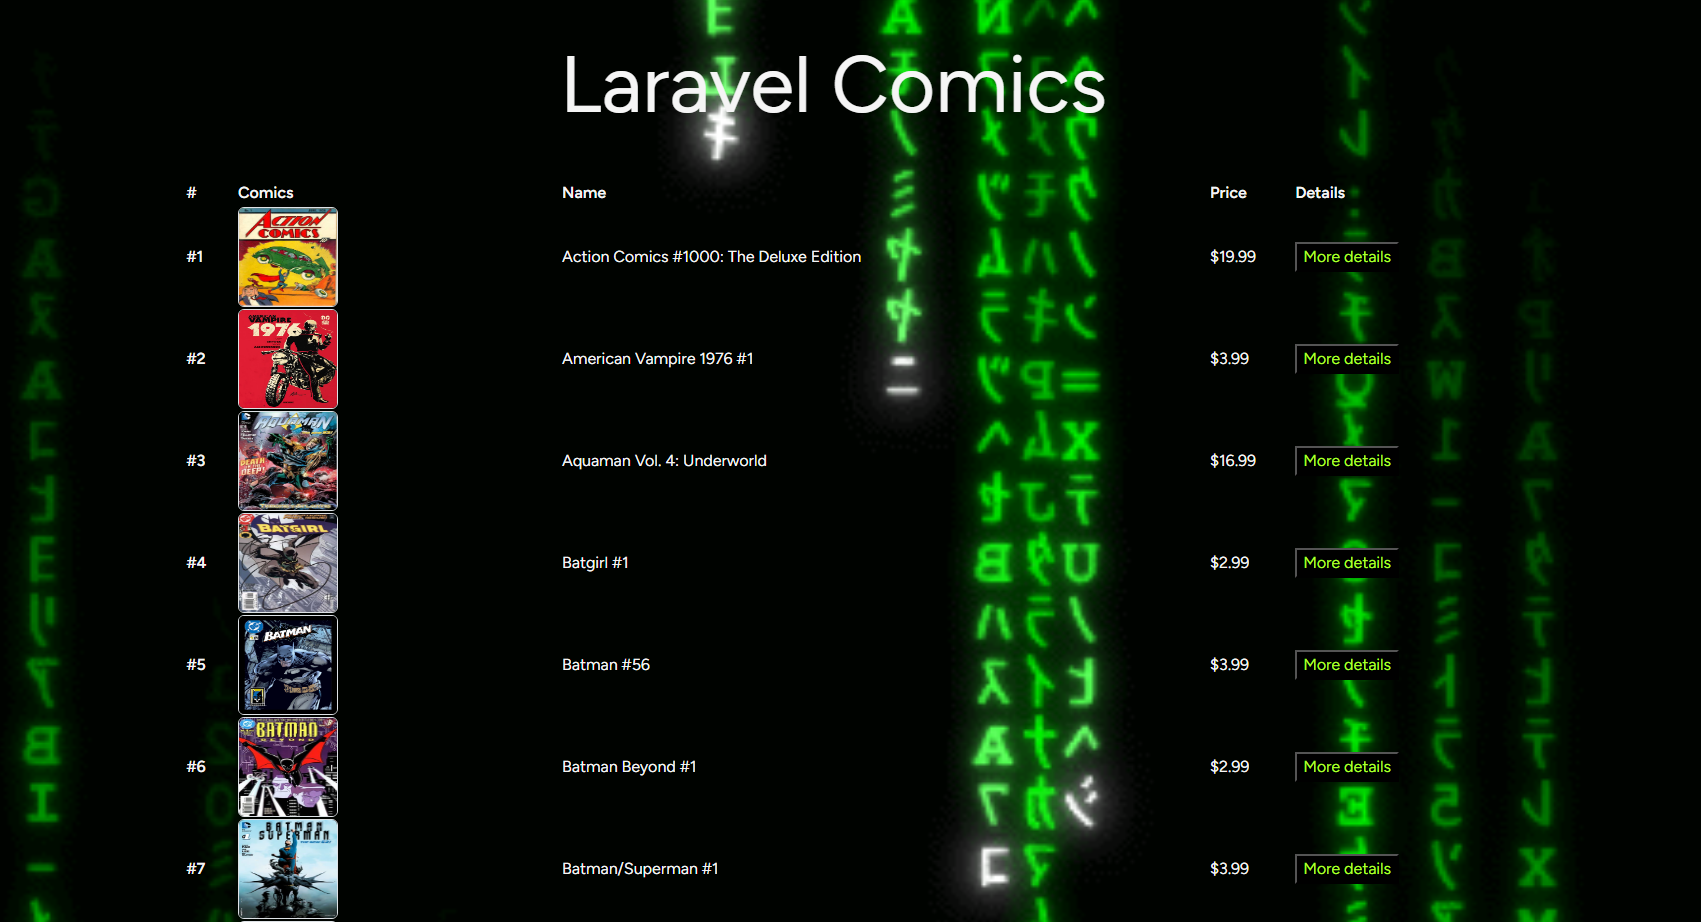
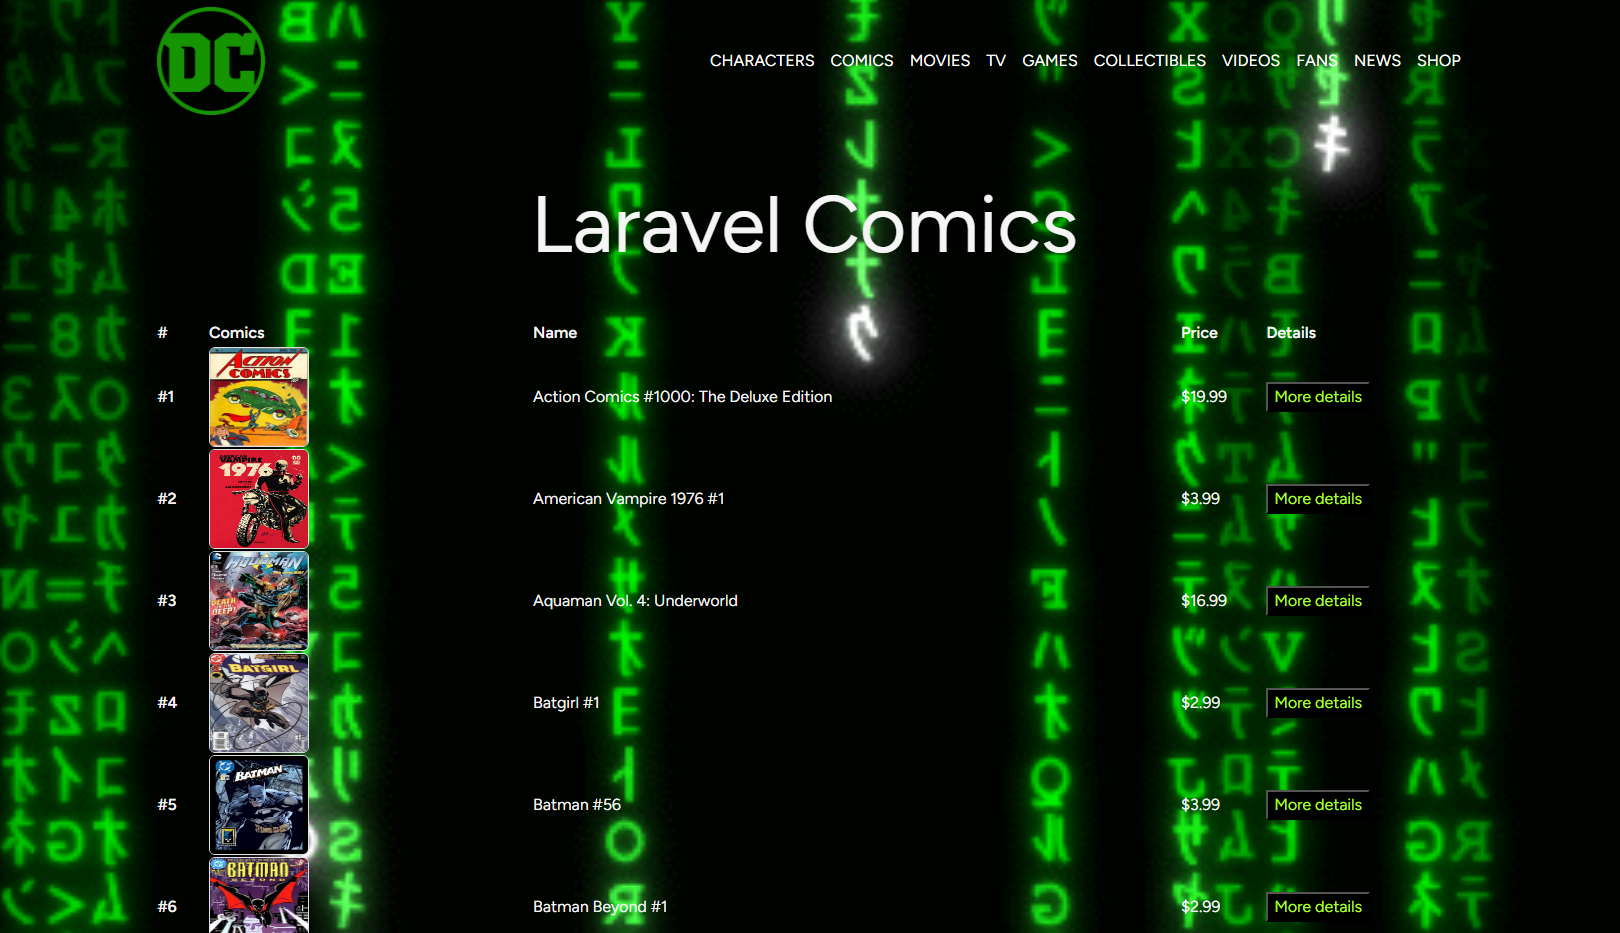
Bonus(partials/header) + update preview

diff --git a/resources/views/partials/header.blade.php b/resources/views/partials/header.blade.php
@@ -1,0 +1,41 @@
+
+    <nav class="navbar navbar-expand-lg bg-trasparent">
+        <div class="container d-flex justify-content-between">
+            <img class="navbar-brand col-1" style="filter:hue-rotate(250deg);" src="{{URL::to('dc-logo.png')}}">
+            <img src="./" alt="">
+            <div class="collapse navbar-collapse offset-2 col-9 justify-content-end" id="navbarNavDropdown">
+                <ul class="navbar-nav">
+                    <li class="nav-item">
+                        <a class="nav-link active text-white" aria-current="page" href="#">CHARACTERS</a>
+                    </li>
+                    <li class="nav-item">
+                        <a class="nav-link text-white" href="#">COMICS</a>
+                    </li>
+                    <li class="nav-item">
+                        <a class="nav-link text-white" href="#">MOVIES</a>
+                    </li>
+                    <li class="nav-item">
+                        <a class="nav-link active text-white" aria-current="page" href="#">TV</a>
+                    </li>
+                    <li class="nav-item">
+                        <a class="nav-link text-white" href="#">GAMES</a>
+                    </li>
+                    <li class="nav-item">
+                        <a class="nav-link text-white" href="#">COLLECTIBLES</a>
+                    </li>
+                    <li class="nav-item">
+                        <a class="nav-link active text-white" aria-current="page" href="#">VIDEOS</a>
+                    </li>
+                    <li class="nav-item">
+                        <a class="nav-link text-white" href="#">FANS</a>
+                    </li>
+                    <li class="nav-item">
+                        <a class="nav-link text-white" href="#">NEWS</a>
+                    </li>
+                    <li class="nav-item">
+                        <a class="nav-link active text-white" aria-current="page" href="#">SHOP</a>
+                    </li>
+                </ul>
+            </div>
+        </div>
+    </nav>

diff --git a/resources/views/details.blade.php b/resources/views/details.blade.php
@@ -7,7 +7,7 @@ $comic_selected = $_GET["selected_details"]
     <head>
         <meta charset="utf-8">
         <meta name="viewport" content="width=device-width, initial-scale=1">
-
+        <link rel="icon" type="image/svg+xml" src="{{URL::to('fav-icon.ico')}}">
         <title>Laravel</title>
         <link rel="preconnect" href="https://fonts.bunny.net">
         <link href="https://fonts.bunny.net/css?family=figtree:400,600&display=swap" rel="stylesheet" />
@@ -19,7 +19,7 @@ $comic_selected = $_GET["selected_details"]
         <link rel="stylesheet" href="style.css">
     </head>
     <body class="antialiased">
-
+        @include('partials.header')
         <section class="container d-flex flex-wrap">
                 <h1 class="col-12 text-center p-1">
                     {{$film[$comic_selected]['title']}}

diff --git a/resources/views/welcome.blade.php b/resources/views/welcome.blade.php
@@ -3,7 +3,7 @@
     <head>
         <meta charset="utf-8">
         <meta name="viewport" content="width=device-width, initial-scale=1">
-
+        <link rel="icon" type="image/svg+xml" src="{{URL::to('fav-icon.ico')}}">
         <title>Laravel</title>
         <link rel="preconnect" href="https://fonts.bunny.net">
         <link href="https://fonts.bunny.net/css?family=figtree:400,600&display=swap" rel="stylesheet" />
@@ -15,7 +15,7 @@
         <link rel="stylesheet" href="style.css">
     </head>
     <body class="antialiased">
-
+        @include('partials.header')
         <section class="container">
 
             <h1 class="text-center my-5" style="font-size: 80px;">Laravel Comics</h1>
